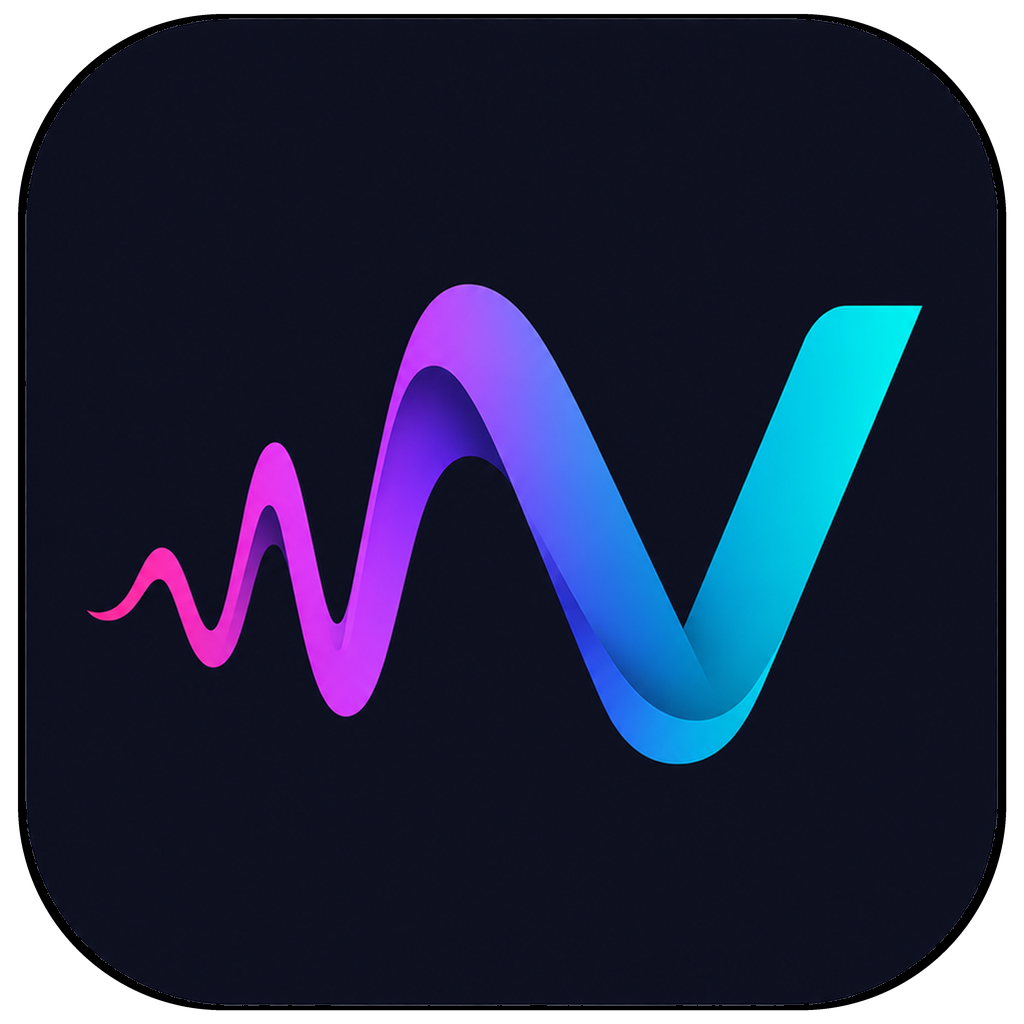
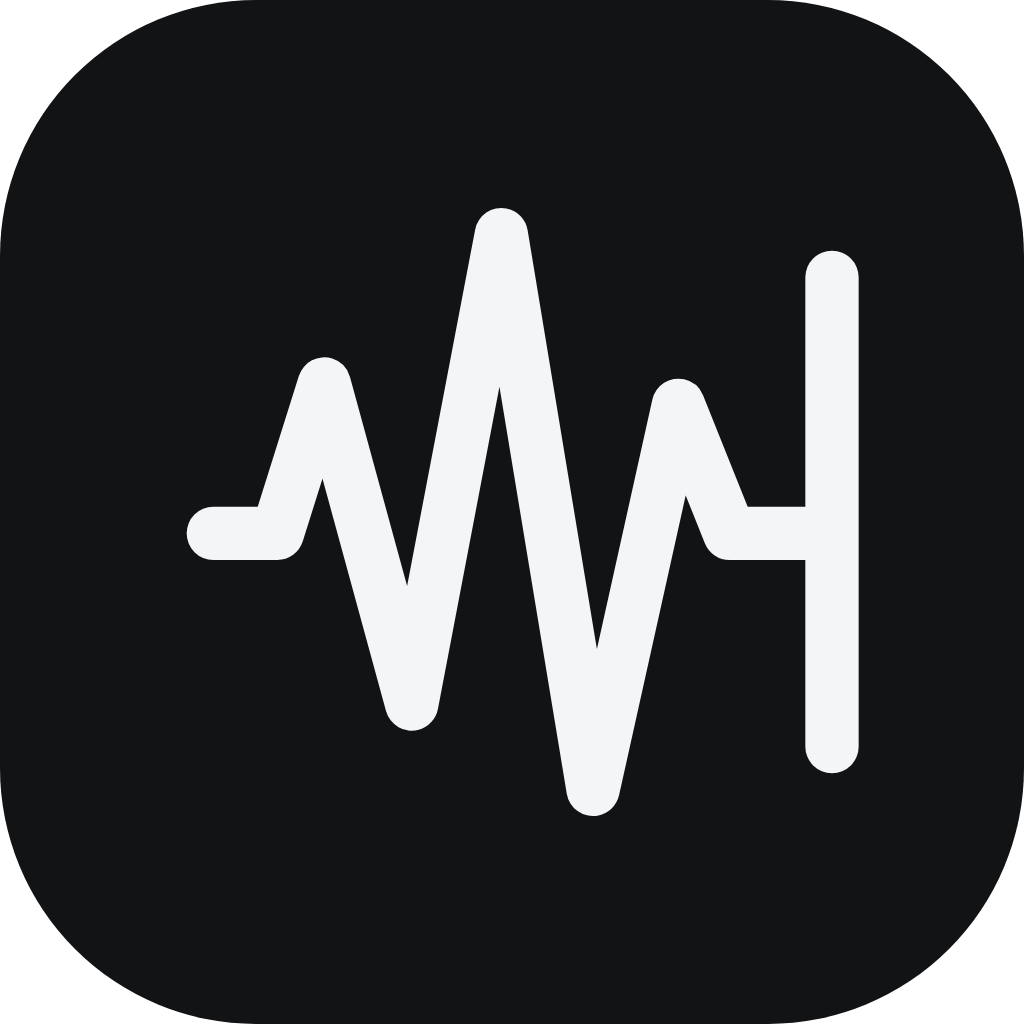
chore: release v1.0.5

diff --git a/test/dashboard.test.js b/test/dashboard.test.js
@@ -130,15 +130,17 @@ test('settings sidebar header contains only the Settings label', () => {
   assert.doesNotMatch(brand, /<svg|control room|microphone/i);
 });
 
-test('sidebar uses the single Vaani brand image and wordmark', () => {
+test('dashboard uses the finalized Vaani SVG and wordmark', () => {
   const root = path.join(__dirname, '..');
   const html = fs.readFileSync(path.join(root, 'src', 'renderer', 'dashboard', 'dashboard.html'), 'utf8');
-  assert.match(html, /<img src="\.\.\/\.\.\/\.\.\/assets\/vaani\.png" alt="" \/>/);
+  assert.equal((html.match(/<img src="\.\.\/\.\.\/\.\.\/assets\/vaani\.svg" alt="" \/>/g) || []).length, 2);
   assert.match(html, /<span class="logo-wordmark">Vaani<\/span>/);
-  assert.equal(fs.existsSync(path.join(root, 'assets', 'vaani.png')), true);
+  const logo = fs.readFileSync(path.join(root, 'assets', 'vaani.svg'), 'utf8');
+  assert.match(logo, /^<svg\b/);
+  assert.match(logo, /viewBox="0 0 48 48"/);
 });
 
-test('window, tray, and installer all use the same brand image', () => {
+test('window, tray, and installer use the rasterized Vaani app icon', () => {
   const root = path.join(__dirname, '..');
   const main = fs.readFileSync(path.join(root, 'src', 'main', 'main.js'), 'utf8');
   const tray = fs.readFileSync(path.join(root, 'src', 'main', 'tray.js'), 'utf8');

diff --git a/src/renderer/dashboard/dashboard.html b/src/renderer/dashboard/dashboard.html
@@ -21,7 +21,7 @@
 
     <div class="welcome-copy">
       <div class="welcome-brand-mark" aria-hidden="true">
-        <img src="../../../assets/vaani.png" alt="" />
+        <img src="../../../assets/vaani.svg" alt="" />
       </div>
       <span class="welcome-eyebrow">Voice, ready everywhere</span>
       <h1 id="welcome-title">Vaani</h1>
@@ -76,7 +76,7 @@
     <nav id="sidebar">
       <div id="logo">
         <div id="logo-mark">
-          <img src="../../../assets/vaani.png" alt="" />
+          <img src="../../../assets/vaani.svg" alt="" />
         </div>
         <div class="logo-copy">
           <span class="logo-wordmark">Vaani</span>

diff --git a/README.md b/README.md
@@ -1,7 +1,7 @@
 # VaaniFlow
 
 <p align="center">
-  <img src="assets/vaani.png" alt="VaaniFlow logo" width="120" />
+  <img src="assets/vaani.svg" alt="VaaniFlow logo" width="120" />
 </p>
 
 <p align="center">